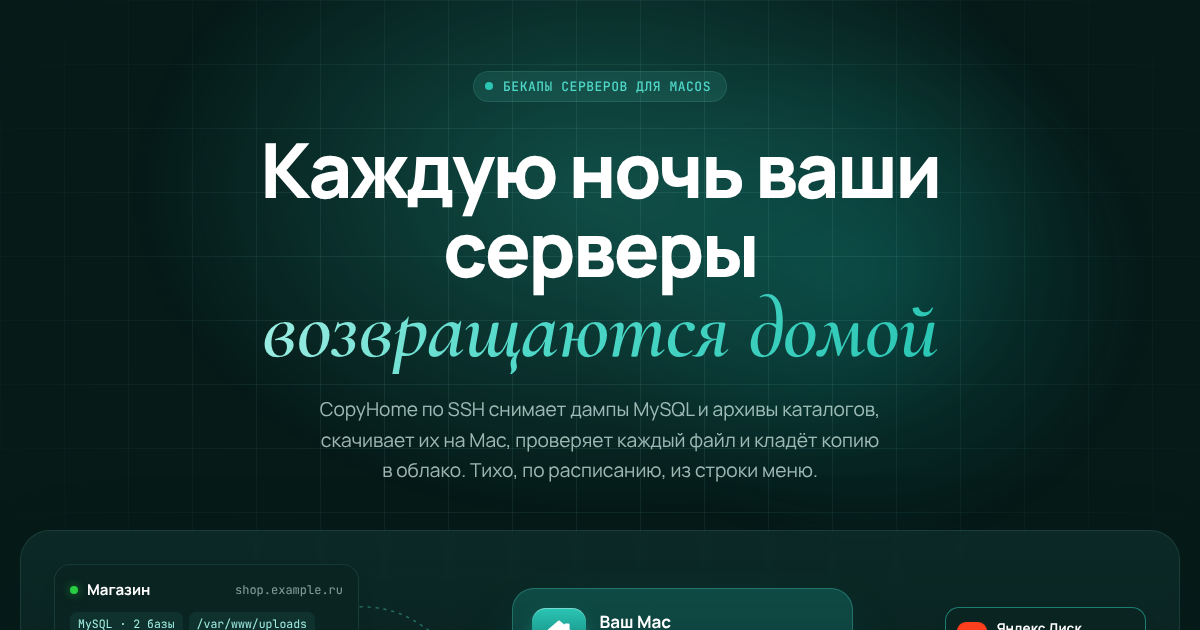
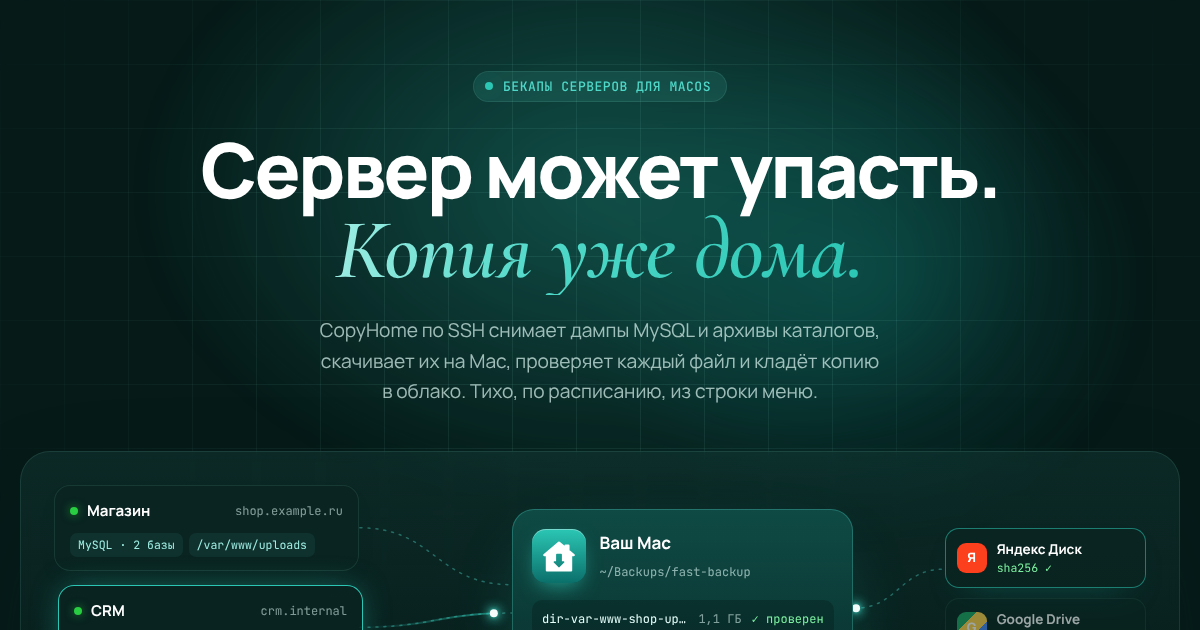
New headline (Servers fail. Your copy is already home.), no-middleman and age encryption cards, missed-run catch-up and retries, stale-backup notice, safe rotation

diff --git a/index.html b/index.html
@@ -71,7 +71,7 @@
   <div class="hero-grid" aria-hidden="true"></div>
   <div class="wrap hero-copy">
     <p class="eyebrow reveal"><span class="pulse"></span> Бекапы серверов для macOS</p>
-    <h1 class="reveal">Каждую ночь ваши серверы <em>возвращаются домой</em></h1>
+    <h1 class="reveal">Сервер может упасть. <em>Копия уже дома.</em></h1>
     <p class="lead reveal">CopyHome по&nbsp;SSH снимает дампы MySQL и&nbsp;архивы каталогов, скачивает их на&nbsp;Mac, проверяет каждый файл и&nbsp;кладёт копию в&nbsp;облако. Тихо, по&nbsp;расписанию, из&nbsp;строки меню.</p>
     <div class="cta-row reveal">
       <a class="btn btn-primary" href="#download">
@@ -192,7 +192,7 @@
       <article class="card c-schedule reveal">
         <p class="kicker">Расписание</p>
         <h3>Как вам удобно, без&nbsp;cron в голове</h3>
-        <p>Вручную, каждый час, день или неделю. Если хочется точнее, есть своё cron-выражение.</p>
+        <p>Вручную, каждый час, день или неделю. Если хочется точнее, есть своё cron-выражение. Mac спал в&nbsp;03:00? Пропущенный бекап выполнится, как только он проснётся, а неудачный повторится через 15 и&nbsp;60 минут.</p>
         <div class="chips">
           <span>Вручную</span><span>Каждый час</span><span class="on">Каждый день в 03:00</span><span>По понедельникам</span><code>15 */6 * * *</code>
         </div>
@@ -212,7 +212,8 @@
         <p class="kicker">Уведомления</p>
         <h3>Пишет, только когда есть повод</h3>
         <div class="notes">
-          <div class="note"><img src="assets/favicon-64.png" alt=""><div><b>Бекап «Лендинги»: проверьте размер</b><span>Снимок на 42% меньше прошлого</span></div><time>сейчас</time></div>
+          <div class="note"><img src="assets/favicon-64.png" alt=""><div><b>Давно не было бекапа «Блог»</b><span>Последняя хорошая копия — 14 октября в 03:00</span></div><time>сейчас</time></div>
+          <div class="note"><img src="assets/favicon-64.png" alt=""><div><b>Бекап «Лендинги»: проверьте размер</b><span>Снимок на 42% меньше прошлого</span></div><time>09:12</time></div>
           <div class="note dim"><img src="assets/favicon-64.png" alt=""><div><b>CopyHome</b><span>Магазин: бекап готов, проверен и выгружен</span></div><time>03:04</time></div>
         </div>
       </article>
@@ -242,7 +243,7 @@
       <article class="card c-rotate reveal">
         <p class="kicker">Ротация</p>
         <h3>Хранит последние N копий</h3>
-        <p>Старые снимки удаляются сами, на Mac и в облаке отдельно.</p>
+        <p>Старые снимки удаляются сами, на Mac и в облаке отдельно. И только после удачной полной копии, так что упавший сервер не съест хорошие бекапы.</p>
         <div class="stack" aria-hidden="true">
           <i class="gone"></i><i class="gone"></i><i></i><i></i><i></i><i></i><i></i><i class="new"></i>
         </div>
@@ -335,9 +336,11 @@
   <div class="wrap">
     <div class="section-head reveal">
       <p class="kicker">Безопасность</p>
-      <h2>Ключи от серверов <em>остаются у вас</em></h2>
+      <h2>Ваши данные <em>остаются у вас</em></h2>
     </div>
     <div class="sec-grid">
+      <div class="sec reveal"><span class="sec-ic"><svg viewBox="0 0 24 24" aria-hidden="true"><rect x="2" y="4" width="7" height="6" rx="1.5"/><path d="M5.5 10v4.5a2 2 0 0 0 2 2H14"/><path d="M12 14l2.5 2.5L12 19"/><path d="M15 13h7v7h-7z"/></svg></span><h3>Без посредников</h3><p>Копии идут с сервера прямо на ваш Mac. Ни наш сервис, ни чужой не видит ваши данные. В облако копия уходит, только если вы подключили своё хранилище.</p></div>
+      <div class="sec reveal"><span class="sec-ic"><svg viewBox="0 0 24 24" aria-hidden="true"><rect x="4" y="10" width="16" height="11" rx="2.5"/><path d="M8 10V7a4 4 0 0 1 8 0v3"/><circle cx="12" cy="15.5" r="1.5"/></svg></span><h3>Шифрование age</h3><p>Включите шифрование, и дамп шифруется ещё по пути в файл: открытой копии на диске нет, в облако уходит уже зашифрованная. Файл <code>.age</code> открывается стандартной утилитой <code>age</code>, без CopyHome.</p></div>
       <div class="sec reveal"><span class="sec-ic"><svg viewBox="0 0 24 24" aria-hidden="true"><circle cx="8" cy="15" r="4"/><path d="M11 12l8-8m-3 3l2 2m-4 0l2 2"/></svg></span><h3>Связка ключей macOS</h3><p>Пароли MySQL, SSH и токены облаков шифруются ключом из связки ключей. В открытом виде они не лежат нигде.</p></div>
       <div class="sec reveal"><span class="sec-ic"><svg viewBox="0 0 24 24" aria-hidden="true"><rect x="3" y="4" width="18" height="16" rx="3"/><path d="M7 9l3 3-3 3m5 0h5"/></svg></span><h3>Системный ssh</h3><p>Никаких своих реализаций протокола. Ваши ключи, конфиг и агент. Смена ключа хоста блокирует подключение.</p></div>
       <div class="sec reveal"><span class="sec-ic"><svg viewBox="0 0 24 24" aria-hidden="true"><path d="M2 12s3.5-6 10-6 10 6 10 6-3.5 6-10 6S2 12 2 12z"/><circle cx="12" cy="12" r="2.5"/><path d="M4 20L20 4"/></svg></span><h3>Не видно в ps</h3><p>Пароль базы уходит на сервер через stdin, а не в аргументах команды, поэтому соседи по серверу его не увидят.</p></div>
@@ -361,6 +364,10 @@
       <details class="reveal">
         <summary>Где хранятся бекапы на Mac?</summary>
         <p>В <code>~/Backups/fast-backup/&lt;Проект&gt;/&lt;дата-время&gt;/</code>: обычные <code>.sql.gz</code>, <code>.sql.zst</code> и <code>.tar.gz</code>, которые открываются без CopyHome. Никаких закрытых форматов.</p>
+      </details>
+      <details class="reveal">
+        <summary>А если Mac спал или был выключен?</summary>
+        <p>Пропущенный по расписанию бекап (за последние 7 дней) выполнится сразу, как только Mac проснётся или CopyHome запустится. Неудачный бекап по расписанию CopyHome сам повторит через 15 и через 60 минут. А если хорошей копии давно нет, придёт уведомление «Давно не было бекапа».</p>
       </details>
       <details class="reveal">
         <summary>Что если окно закрыто?</summary>

diff --git a/en/index.html b/en/index.html
@@ -71,7 +71,7 @@
   <div class="hero-grid" aria-hidden="true"></div>
   <div class="wrap hero-copy">
     <p class="eyebrow reveal"><span class="pulse"></span> Server backups for macOS</p>
-    <h1 class="reveal">Every night, your servers <em>come home</em></h1>
+    <h1 class="reveal">Servers fail. <em>Your copy is already home.</em></h1>
     <p class="lead reveal">CopyHome dumps your MySQL databases and archives folders over SSH, downloads them to your Mac, verifies every file and puts a copy in the cloud. Quietly, on schedule, from the menu bar.</p>
     <div class="cta-row reveal">
       <a class="btn btn-primary" href="#download">
@@ -192,7 +192,7 @@
       <article class="card c-schedule reveal">
         <p class="kicker">Schedule</p>
         <h3>Your way, no cron in&nbsp;your head</h3>
-        <p>Manually, hourly, daily or weekly. Need more precision? Write your own cron expression.</p>
+        <p>Manually, hourly, daily or weekly. Need more precision? Write your own cron expression. Was the Mac asleep at 3:00 AM? The missed backup runs as soon as it wakes up, and a failed one is retried after 15 and 60&nbsp;minutes.</p>
         <div class="chips">
           <span>Manually</span><span>Every hour</span><span class="on">Daily at 3:00 AM</span><span>Every Monday</span><code>15 */6 * * *</code>
         </div>
@@ -212,7 +212,8 @@
         <p class="kicker">Notifications</p>
         <h3>Speaks up only when it matters</h3>
         <div class="notes">
-          <div class="note"><img src="../assets/favicon-64.png" alt=""><div><b>"Landing pages" backup: check the size</b><span>Snapshot is 42% smaller than the last one</span></div><time>now</time></div>
+          <div class="note"><img src="../assets/favicon-64.png" alt=""><div><b>No recent backup of "Blog"</b><span>Last good copy: October 14 at 3:00 AM</span></div><time>now</time></div>
+          <div class="note"><img src="../assets/favicon-64.png" alt=""><div><b>"Landing pages" backup: check the size</b><span>Snapshot is 42% smaller than the last one</span></div><time>9:12 AM</time></div>
           <div class="note dim"><img src="../assets/favicon-64.png" alt=""><div><b>CopyHome</b><span>Shop: backup done, verified and uploaded</span></div><time>3:04 AM</time></div>
         </div>
       </article>
@@ -242,7 +243,7 @@
       <article class="card c-rotate reveal">
         <p class="kicker">Rotation</p>
         <h3>Keeps the last N copies</h3>
-        <p>Old snapshots are removed automatically, on the Mac and in the cloud separately.</p>
+        <p>Old snapshots are removed automatically, on the Mac and in the cloud separately. And only after a successful full backup, so a server that goes down never eats your good copies.</p>
         <div class="stack" aria-hidden="true">
           <i class="gone"></i><i class="gone"></i><i></i><i></i><i></i><i></i><i></i><i class="new"></i>
         </div>
@@ -335,9 +336,11 @@
   <div class="wrap">
     <div class="section-head reveal">
       <p class="kicker">Security</p>
-      <h2>Your server keys <em>stay with you</em></h2>
+      <h2>Your data <em>stays yours</em></h2>
     </div>
     <div class="sec-grid">
+      <div class="sec reveal"><span class="sec-ic"><svg viewBox="0 0 24 24" aria-hidden="true"><rect x="2" y="4" width="7" height="6" rx="1.5"/><path d="M5.5 10v4.5a2 2 0 0 0 2 2H14"/><path d="M12 14l2.5 2.5L12 19"/><path d="M15 13h7v7h-7z"/></svg></span><h3>No middleman</h3><p>Copies go from the server straight to your Mac. Neither our service nor anyone else's sees your data. A copy goes to the cloud only if you connect your own storage.</p></div>
+      <div class="sec reveal"><span class="sec-ic"><svg viewBox="0 0 24 24" aria-hidden="true"><rect x="4" y="10" width="16" height="11" rx="2.5"/><path d="M8 10V7a4 4 0 0 1 8 0v3"/><circle cx="12" cy="15.5" r="1.5"/></svg></span><h3>age encryption</h3><p>Turn on encryption and the dump is encrypted on its way to the file: there is no plain copy on disk, and the cloud gets the encrypted one. A <code>.age</code> file opens with the standard <code>age</code> tool, no CopyHome needed.</p></div>
       <div class="sec reveal"><span class="sec-ic"><svg viewBox="0 0 24 24" aria-hidden="true"><circle cx="8" cy="15" r="4"/><path d="M11 12l8-8m-3 3l2 2m-4 0l2 2"/></svg></span><h3>macOS Keychain</h3><p>MySQL and SSH passwords and cloud tokens are encrypted with a key from your Keychain. They are never stored in plain text.</p></div>
       <div class="sec reveal"><span class="sec-ic"><svg viewBox="0 0 24 24" aria-hidden="true"><rect x="3" y="4" width="18" height="16" rx="3"/><path d="M7 9l3 3-3 3m5 0h5"/></svg></span><h3>System ssh</h3><p>No home-made protocol code. Your keys, your config, your agent. A changed host key blocks the connection.</p></div>
       <div class="sec reveal"><span class="sec-ic"><svg viewBox="0 0 24 24" aria-hidden="true"><path d="M2 12s3.5-6 10-6 10 6 10 6-3.5 6-10 6S2 12 2 12z"/><circle cx="12" cy="12" r="2.5"/><path d="M4 20L20 4"/></svg></span><h3>Invisible in ps</h3><p>The database password reaches the server through stdin, not command arguments, so other users on the server can't see it.</p></div>
@@ -361,6 +364,10 @@
       <details class="reveal">
         <summary>Where are backups stored on the Mac?</summary>
         <p>In <code>~/Backups/fast-backup/&lt;Project&gt;/&lt;date-time&gt;/</code> as plain <code>.sql.gz</code>, <code>.sql.zst</code> and <code>.tar.gz</code> files that open without CopyHome. No proprietary formats.</p>
+      </details>
+      <details class="reveal">
+        <summary>What if the Mac was asleep or off?</summary>
+        <p>A missed scheduled backup (from the last 7 days) runs right away once the Mac wakes up or CopyHome starts. A failed scheduled backup is retried automatically after 15 and 60 minutes. And if there has been no good copy for too long, you get a "No recent backup" notification.</p>
       </details>
       <details class="reveal">
         <summary>What if the window is closed?</summary>

diff --git a/styles.css b/styles.css
@@ -595,7 +595,7 @@ p { margin: 0; }
 
 /* ---------- security ---------- */
 .security { background: var(--bg-alt); }
-.sec-grid { display: grid; grid-template-columns: repeat(4, 1fr); gap: 18px; }
+.sec-grid { display: grid; grid-template-columns: repeat(3, 1fr); gap: 18px; }
 .sec { padding: 28px; border-radius: var(--radius); background: var(--surface); box-shadow: var(--card-shadow); }
 .sec-ic { width: 48px; height: 48px; border-radius: 14px; display: grid; place-items: center; background: var(--accent-soft); }
 .sec-ic svg { width: 24px; height: 24px; fill: none; stroke: var(--accent); stroke-width: 1.7; stroke-linecap: round; stroke-linejoin: round; }
